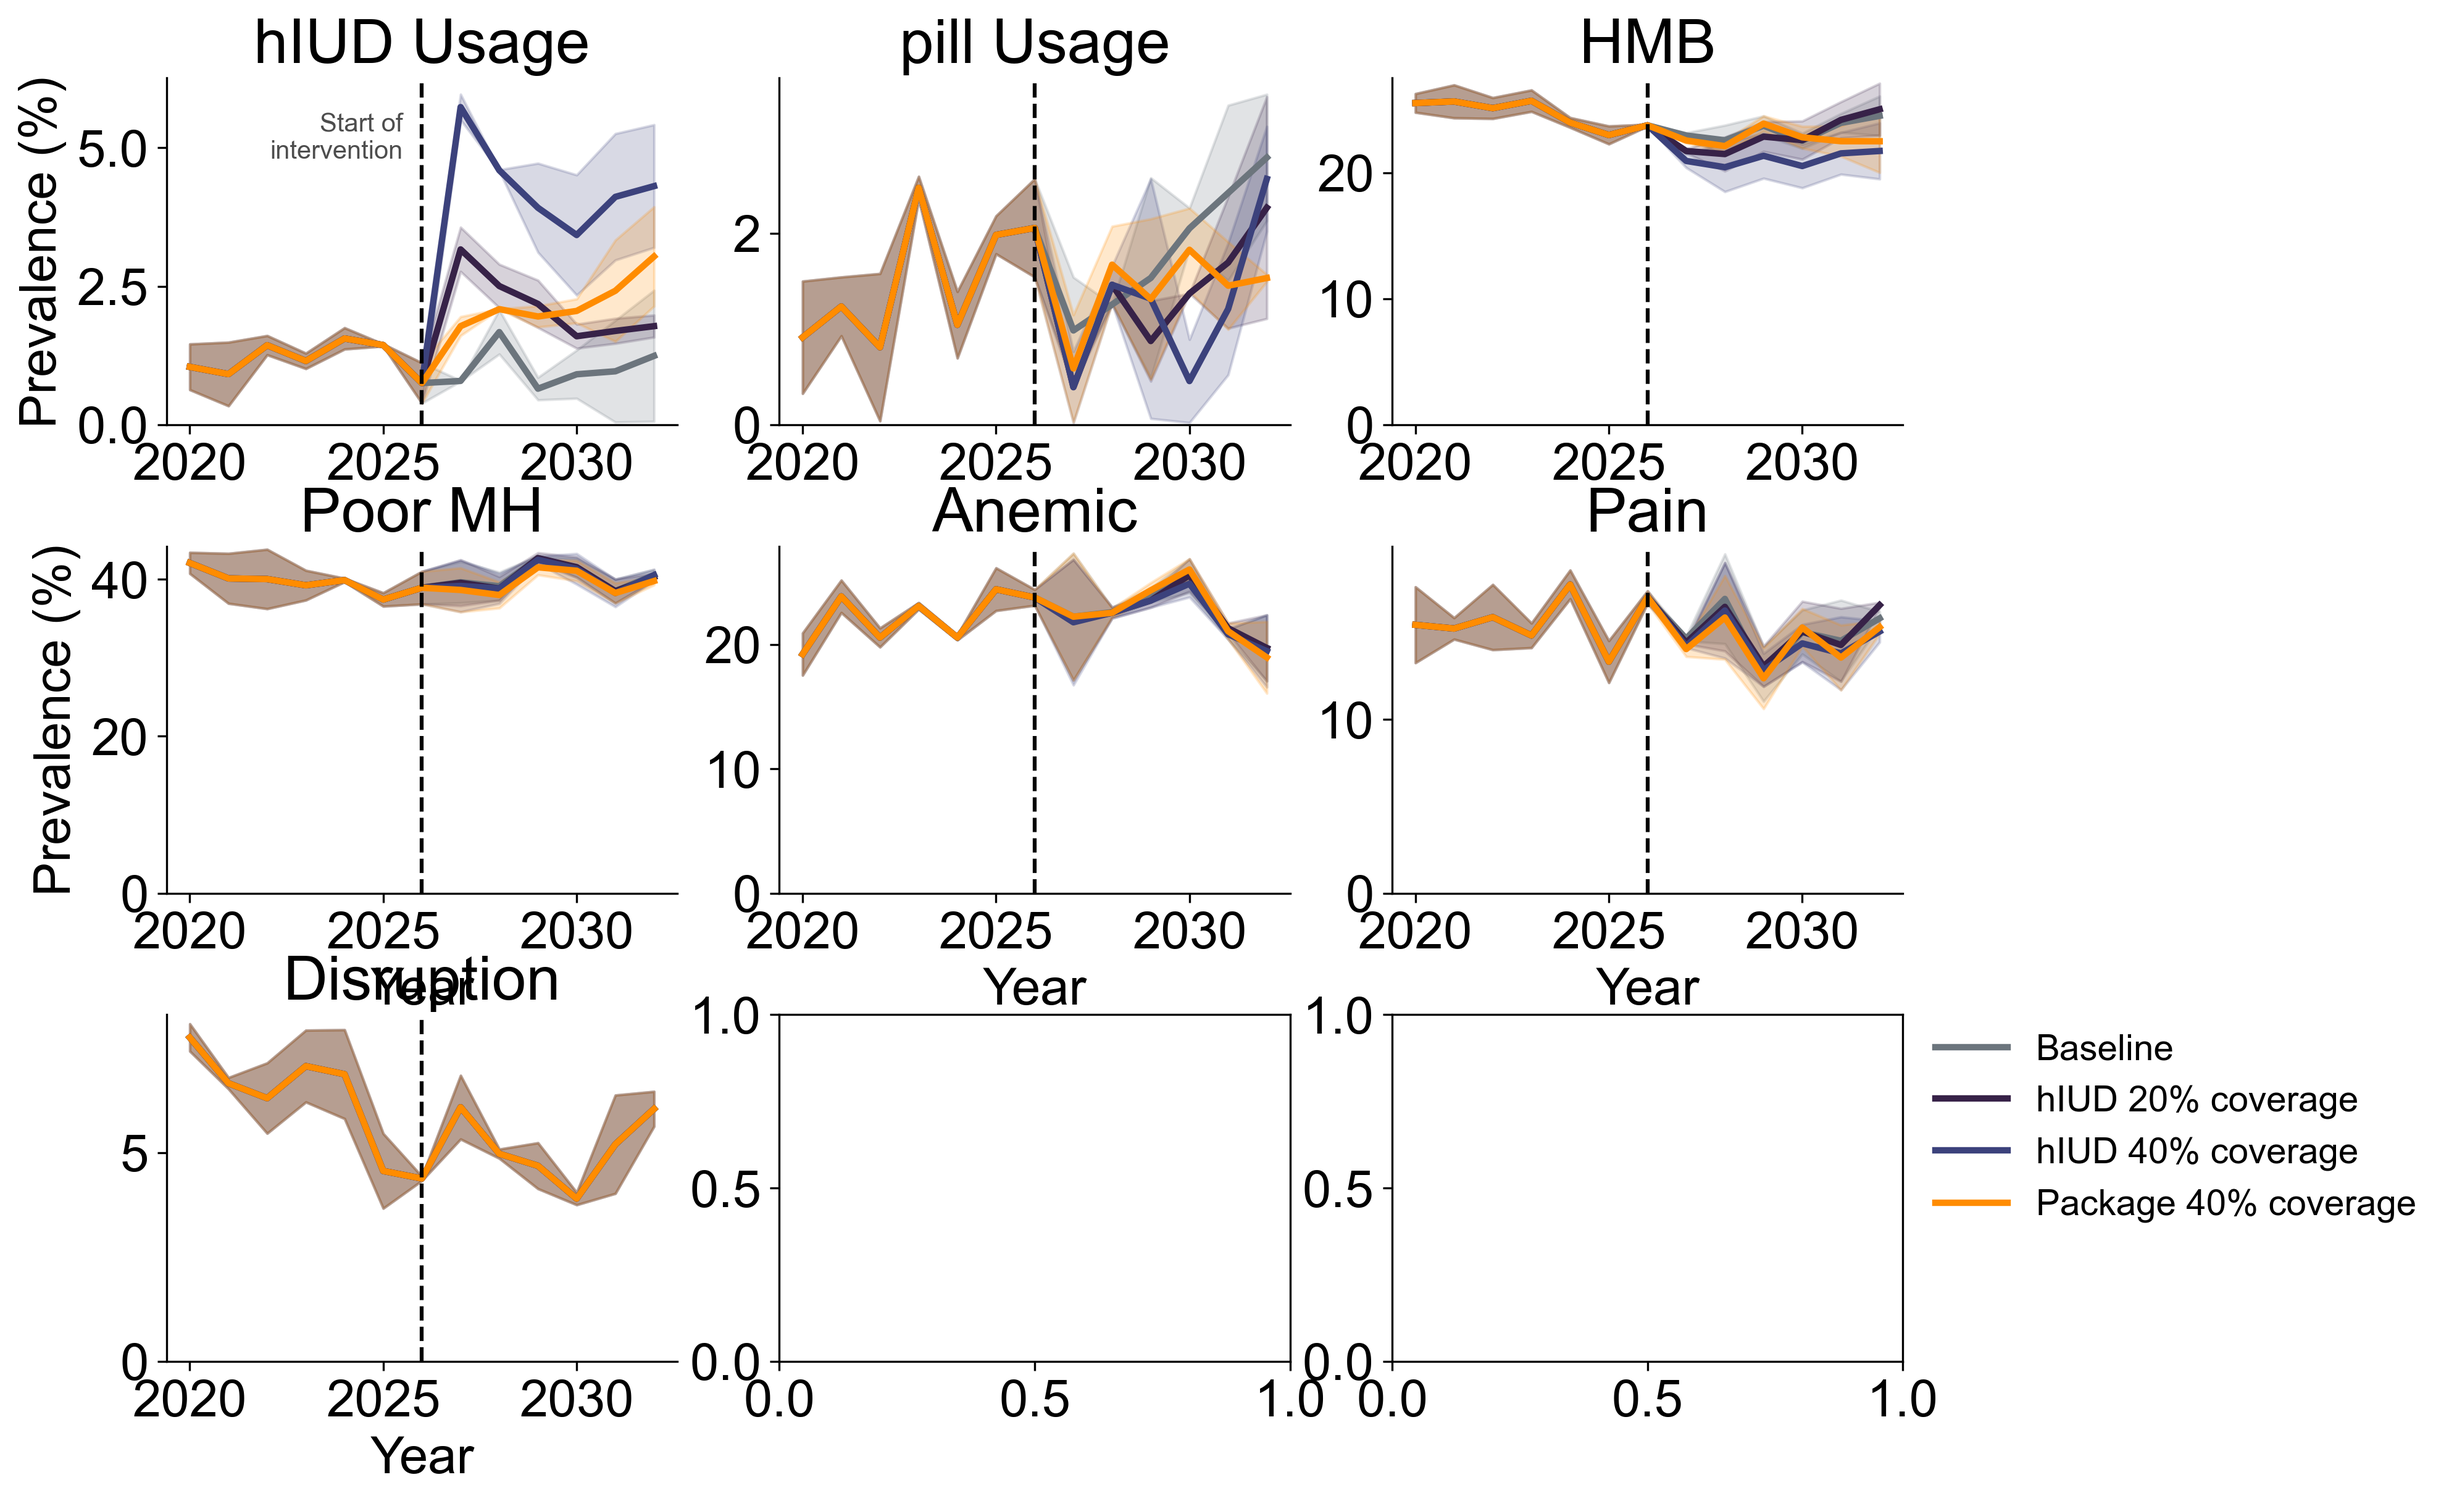
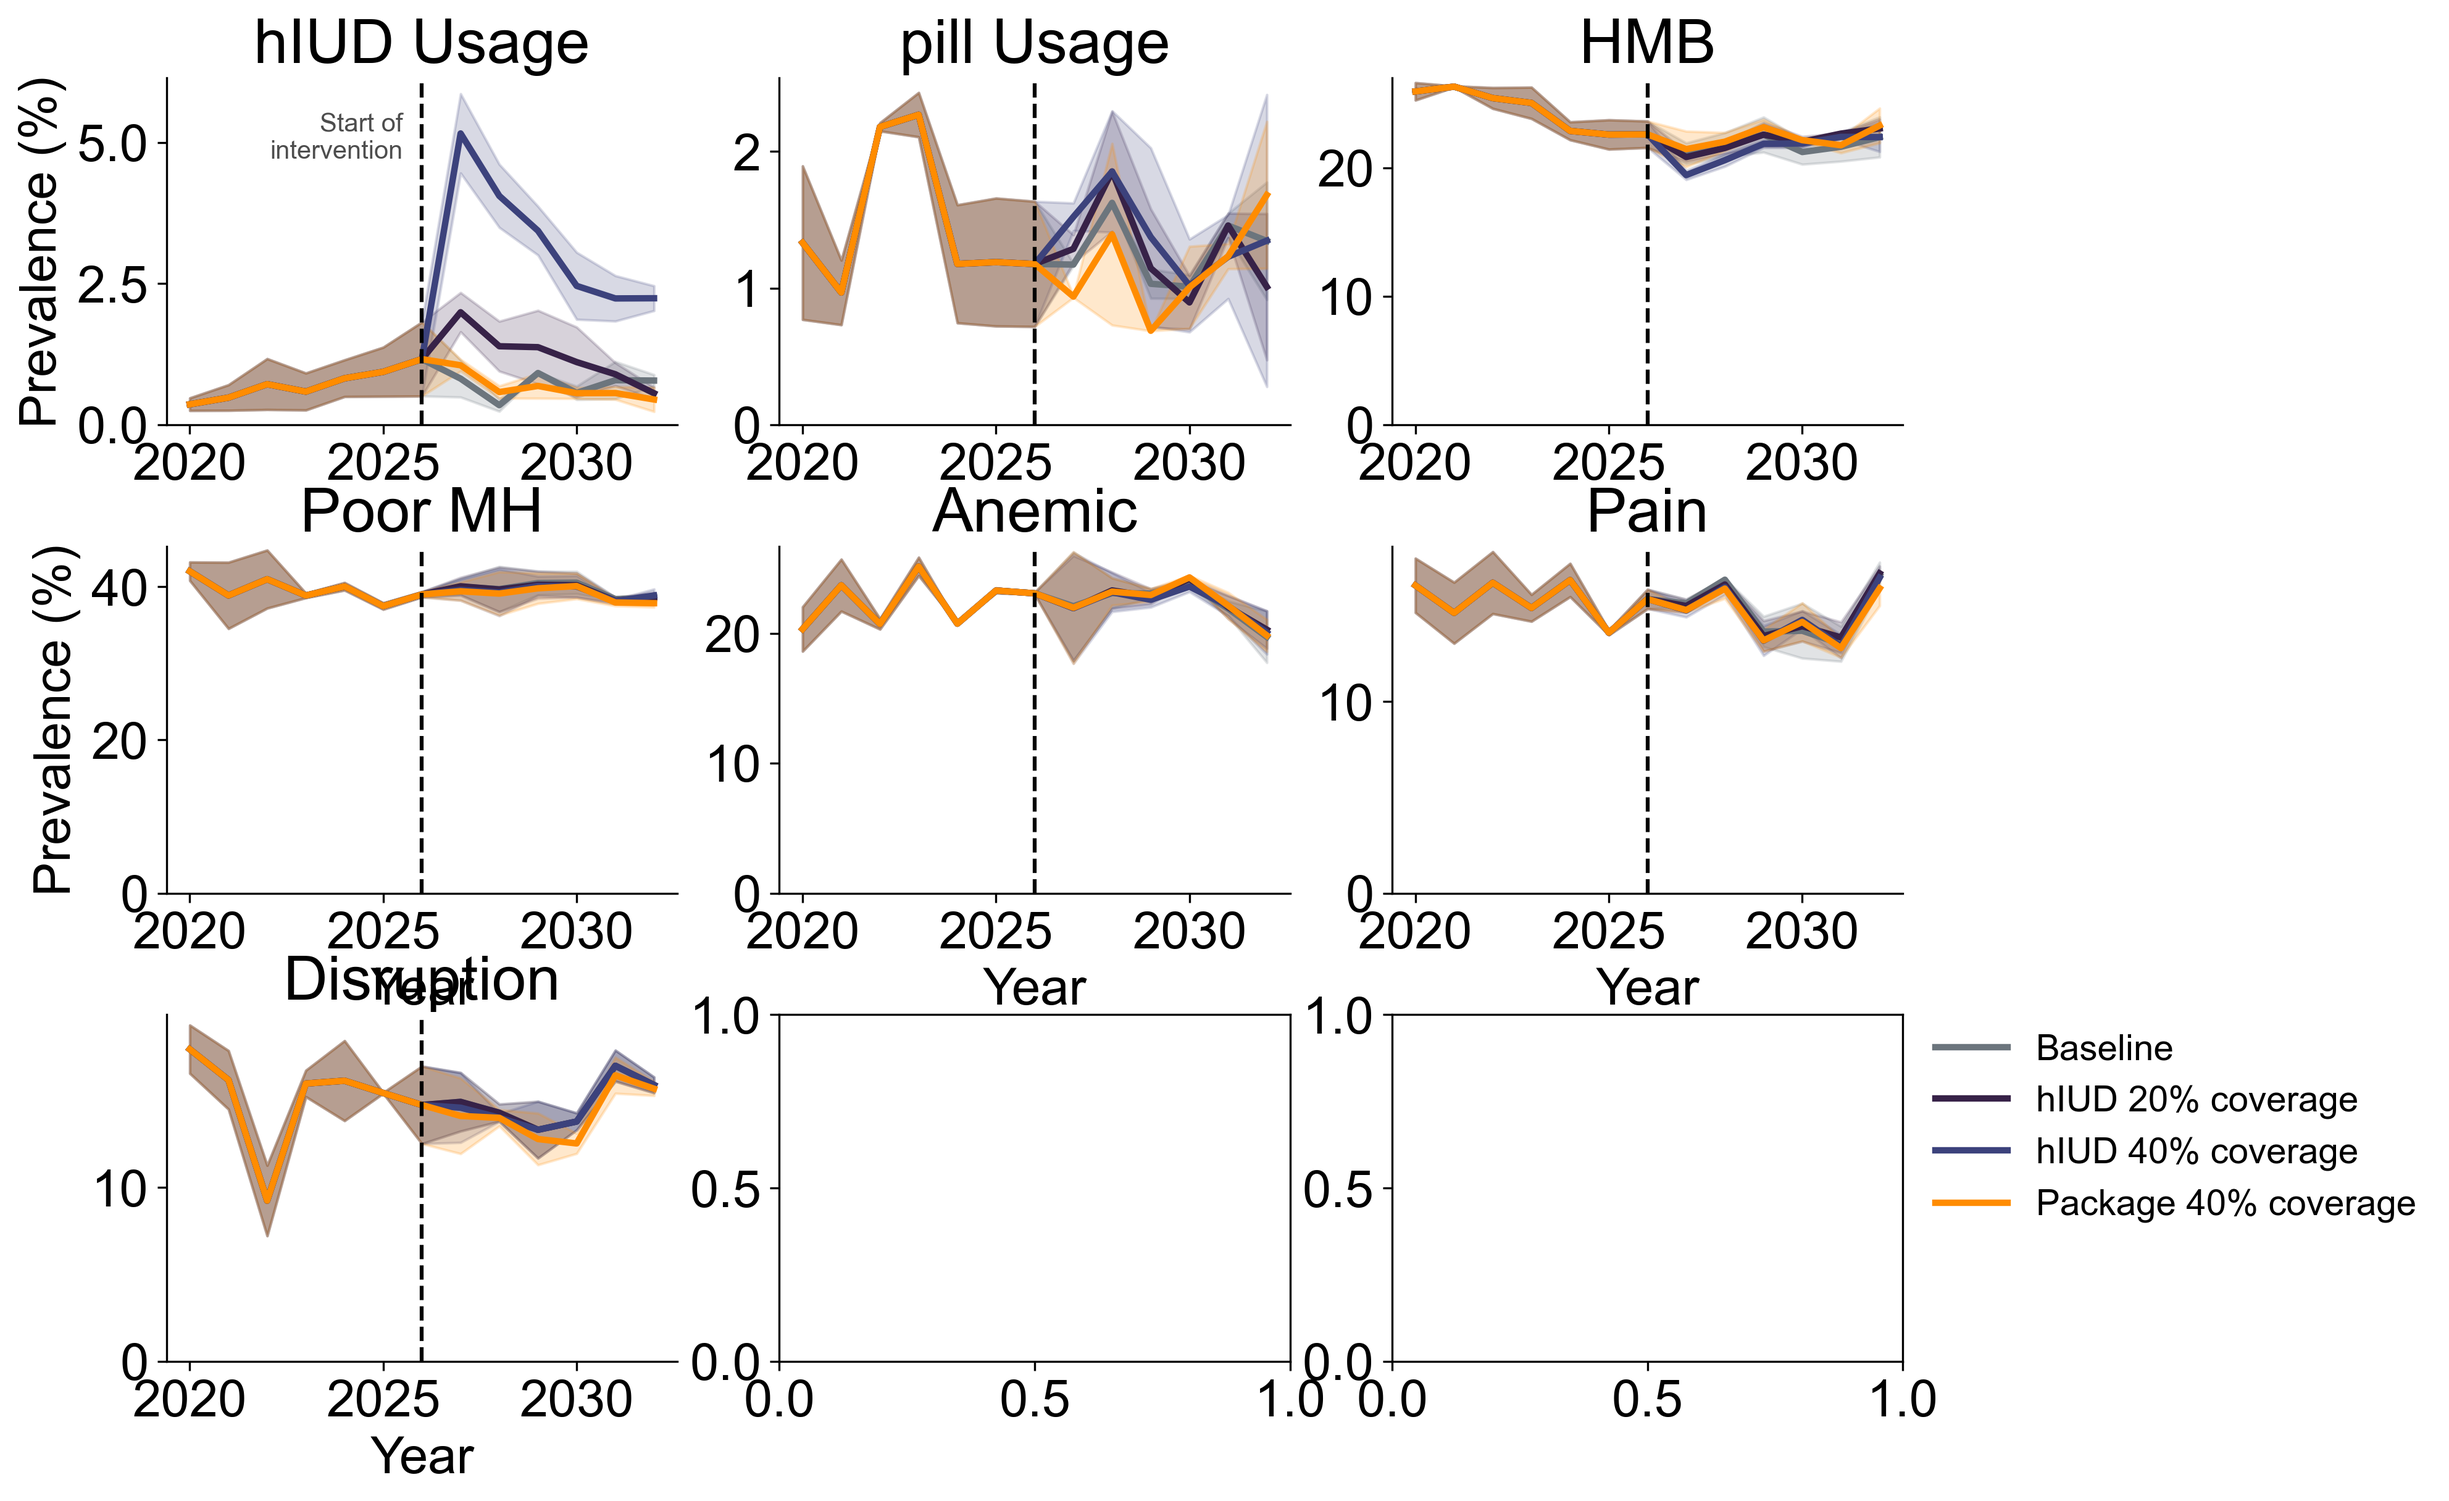
add demographics = ss.births() to sim

diff --git a/run_kenya_nsaid_added.py b/run_kenya_nsaid_added.py
@@ -109,6 +109,7 @@ def make_sim(pars=None, stop=2021):
     mens = Menstruation()
     objective_data = pd.read_csv("data/kenya_objective.csv")
     attainment_data = pd.read_csv("data/kenya_initialization.csv")
+    births = ss.Births()
     edu = Education(objective_data=objective_data, attainment_data=attainment_data)
 
     # Run the sim
@@ -118,6 +119,7 @@ def make_sim(pars=None, stop=2021):
         n_agents=1000,
         location='kenya',
         pars=pars,
+        demographics=[births],
         analyzers=[fp.cpr_by_age(), fp.method_mix_by_age()],
         education_module=edu,
         connectors=[mens],
